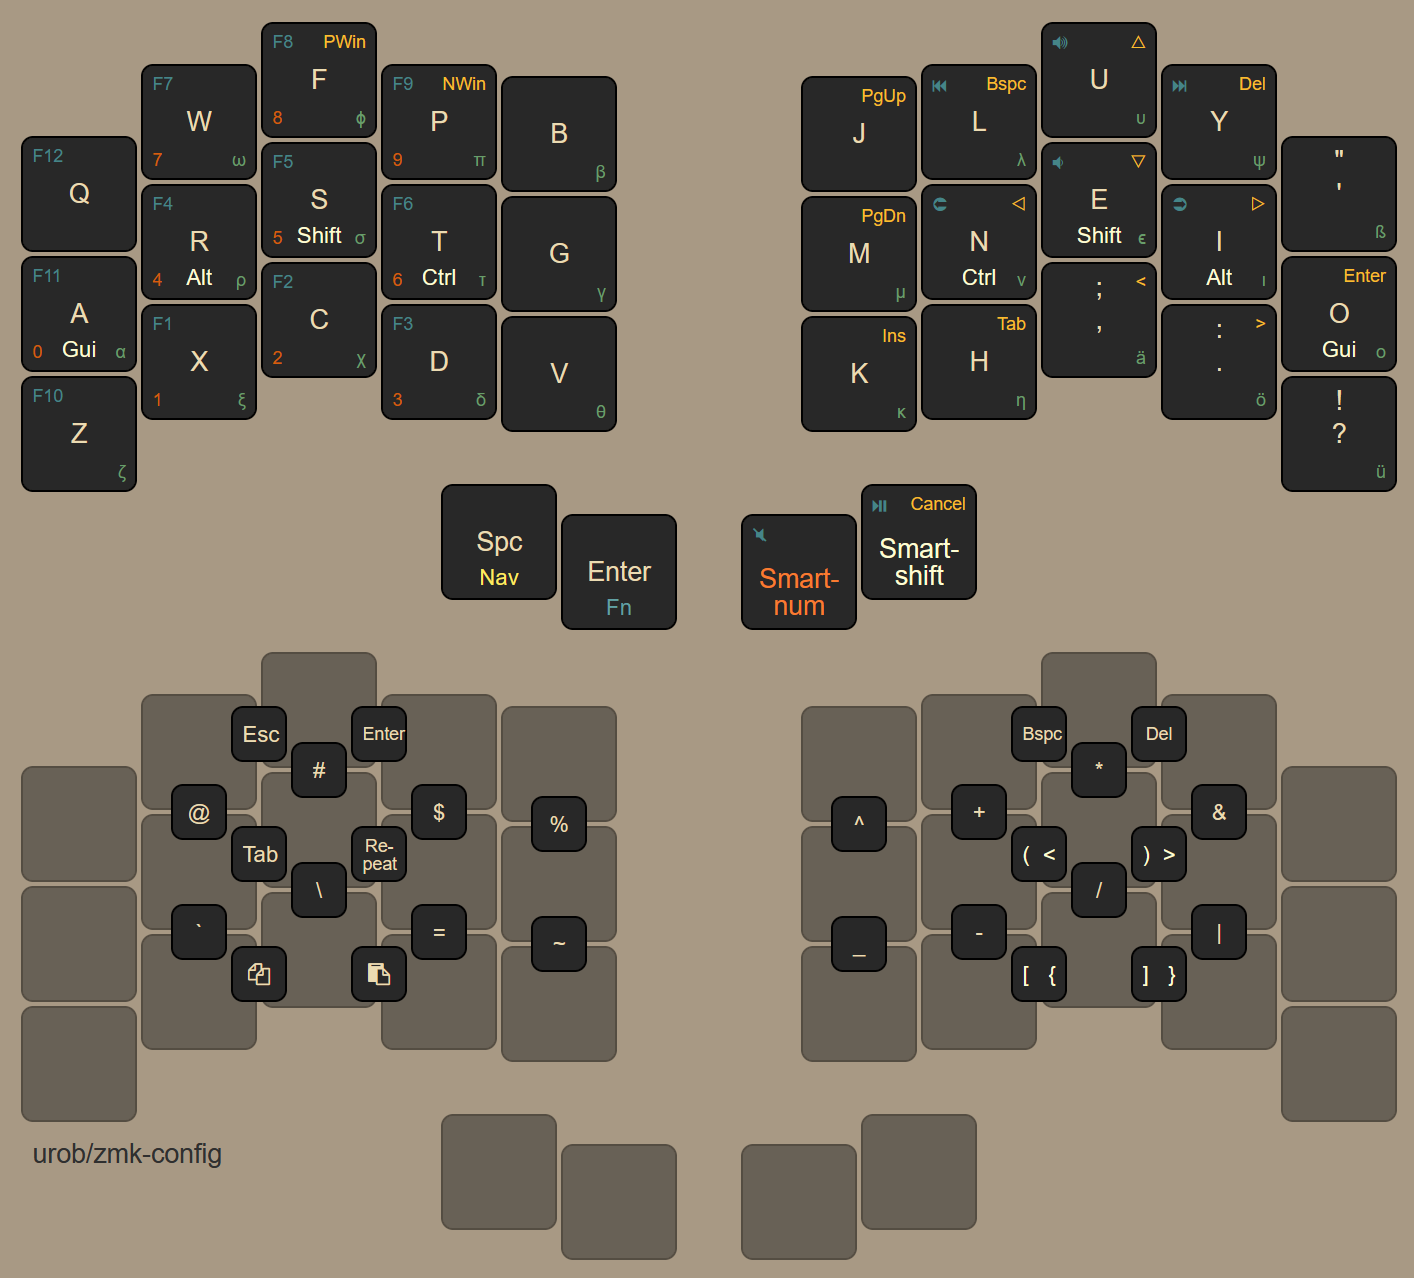
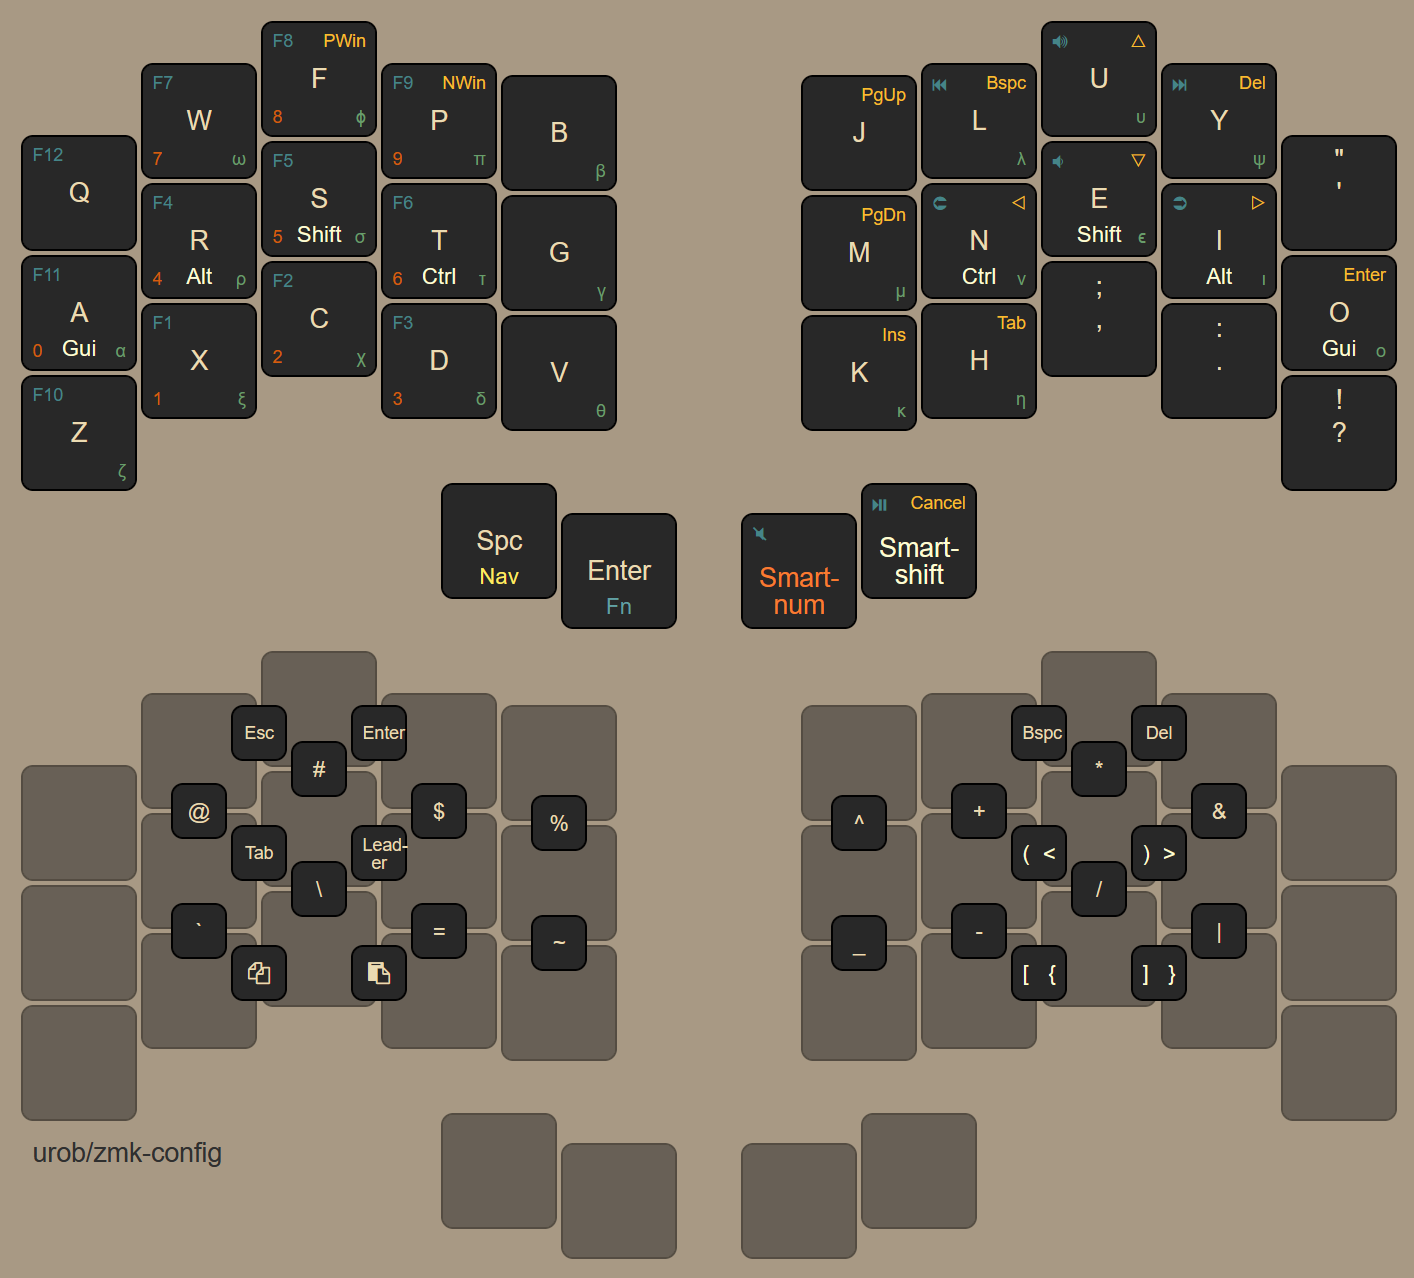
Update documentation

diff --git a/readme.md b/readme.md
@@ -10,26 +10,20 @@ compatible with Zephyr 3.0 is available
 
 ## Highlights
 
-- simple keymap configuration using helper macros from
+- ["Timeless" homerow mods](#timeless-homerow-mods)
+- Combos replace symbol layer
+- Smart numbers and mouse layers auto-toggle off
+- Unicode math and international leader key sequences
+- Simplified Devicetree syntax using helper macros from
   [zmk-helpers](https://github.com/urob/zmk-helpers)
-- the base keymap and combo setup are independent of the physical location of
-  keys and are re-used for multiple keyboards. The configuration is fit onto
-  larger boards by padding it via a modular structure of "extra keys"
-- ["timeless" homerow mods](#timeless-homerow-mods)
-- combos replacing the symbol layer
-- smart numbers and smart mouse layers that automatically toggle off when done
-- sticky shift on right thumb, double-tap (or shift + tap)[^1] activates
-  caps-word
-- arrow-cluster doubles as <kbd>home</kbd>, <kbd>end</kbd>, <kbd>begin/end of
+- Base keymap padded with modular structure of "extra keys" to fit on larger
+  boards
+- Arrow-cluster doubles as <kbd>home</kbd>, <kbd>end</kbd>, <kbd>begin/end of
   document</kbd> on long-press
-- more intuitive shift-actions: <kbd>, ;</kbd>, <kbd>. :</kbd> and <kbd>?
+- More intuitive shift-actions: <kbd>, ;</kbd>, <kbd>. :</kbd> and <kbd>?
   !</kbd>
-- <kbd>shift</kbd> + <kbd>space</kbd> morphs into <kbd>dot</kbd> →
-  <kbd>space</kbd> → <kbd>sticky-shift</kbd>
-- "Greek" layer for mathematical typesetting (activated as sticky-layer via a
-  combo)
-- nix-based [local build environment](#local-development-workspace) -- simply
-  `cd` into your workspace and start building without any setup
+- Fully automated, nix-based
+  [local build environment](#local-development-workspace)
 
 ![](draw/keymap.png)
 
@@ -41,7 +35,7 @@ timing: In its most naive implementation, in order to produce a "mod", they must
 be held _longer_ than `tapping-term-ms`. In order to produce a "tap", they must
 be held _less_ than `tapping-term-ms`. This requires very consistent typing
 speeds that, alas, I do not possess. Hence my quest for a "timer-less" HRM
-setup.[^2]
+setup.[^1]
 
 After months of tweaking, I eventually ended up with a HRM setup that is
 essentially timer-less, resulting in virtually no misfires. Yet it provides a
@@ -51,7 +45,7 @@ Let's suppose for a moment we set `tapping-term-ms` to something ridiculously
 large, say 5 seconds. This makes the configuration timer-less of sorts. But it
 has two problems: (1) To activate a mod we will have to hold the HRM keys for
 what feels like eternity. (2) During regular typing, there are delays between
-the press of a key and the time it appears on the screen.[^3] Enter two of my
+the press of a key and the time it appears on the screen.[^2] Enter two of my
 favorite ZMK features:
 
 - To address the first problem, I use ZMK's `balanced` flavor, which produces a
@@ -148,7 +142,7 @@ smaller (and larger) things to try.
 
 - **Noticeable delay when tapping HRMs:** Increase `require-prior-idle-ms`. As a
   rule of thumb, you want to set it to at least `10500/x` where `x` is your
-  (relaxed) WPM for English prose.[^4]
+  (relaxed) WPM for English prose.[^3]
 - **False negatives (same-hand):** Reduce `tapping-term-ms` (or disable
   `hold-trigger-key-positions`)
 - **False negatives (cross-hand):** Reduce `require-prior-idle-ms` (or set
@@ -249,14 +243,15 @@ I am using [Nick Conway](https://github.com/nickconway)'s fantastic
 [tri-state](https://github.com/zmkfirmware/zmk/pull/1366) behavior for a
 one-handed Alt-Tab switcher (`PWin` and `NWin`).
 
-##### Repeat
+##### Leader key
 
-I recently switched to 25g-chocs on one of my keyboards. I already was very
-happy with my combos prior to that (even with heavy-ish MX-switches). But with
-the light chocs, I find that I can now even use them for regular typing. While I
-haven't yet tried placing alphas on combos, I am currently experimenting with a
-`repeat` combo on my home row that I use to reduce SFUs when typing
-double-letter words.
+I recently started using Nick Conway's
+[Leader key](https://github.com/zmkfirmware/zmk/pull/1380) implementation for
+ZMK. From my limited experience, I really like how it allows making less
+commonly used behaviors accessible without binding them to a dedicated key. For
+now I am using it for a variety of Unicode math symbols and international
+characters. I am planning to extend the use to various firmware interactions
+once I figure out the technical details.
 
 ## Local development workspace
 
@@ -281,9 +276,9 @@ environment is _completely isolated_ and won't pollute your system.
    ```
 
 2. Install [`direnv`](https://direnv.net/) (and optionally but recommended
-   [`nix-direnv`](https://github.com/nix-community/nix-direnv)[^5]) using your
+   [`nix-direnv`](https://github.com/nix-community/nix-direnv)[^4]) using your
    package manager of choice. E.g., using the `nix` package manager that we just
-   installed[^6]:
+   installed[^5]:
 
    ```
    nix profile install nixpkgs#direnv nixpkgs#nix-direnv
@@ -409,31 +404,11 @@ remaining issues:
   pause when wanting to chord HRMs that overlap with combo positions. As a
   workaround, I implemented all homerow combos as homerow-mod-combos. This is
   good enough for day-to-day, but does not address all edge cases (eg
-  dynamically adding/removing mods doesn't work well). Having a native solution
-  akin to QMK's "COMBO_MUST_TAP" property would be fantastic.
-- Another item on my wishlist are adaptive keys
-  ([#1624](https://github.com/zmkfirmware/zmk/issues/1624)). This would open the
-  door for things like <kbd>space</kbd><kbd>space</kbd> becoming
-  <kbd>.</kbd><kbd>space</kbd><kbd>sticky-shift</kbd>. (Using tap-dance isn't
-  really an option here due to the delay it adds)
-- A minor thing is that ZMK doesn't yet support any keys on the
-  desktop-user-page; e.g., OS sleep
-  ([#1077](https://github.com/zmkfirmware/zmk/issues/1077),
-  [#1535](https://github.com/zmkfirmware/zmk/issues/1535))
+  changing active mods).
 - Very minor: `&bootloader` doesn't work with stm32 boards like the Planck
   ([#1086](https://github.com/zmkfirmware/zmk/issues/1086))
 
 [^1]:
-    Really what's happening is that `Shift` + my right home-thumb morph into
-    caps-word. This gives me two separate ways of activating it: (1) Holding the
-    homerow-mod shift on my left index-finger and then pressing my right
-    home-thumb, which is my new preferred way. Or, (2) double-tapping the right
-    home-thumb, which also works because the first tap yields sticky-shift,
-    activating the mod-morph upon the second tap. But even when only activating
-    via double-tapping, this implementation is advantageous compared to using
-    tap-dance as it does not create any delay when single-tapping the key.
-
-[^2]:
     I call it "timer-less", because the large tapping-term makes the behavior
     insensitive to the precise timings. One may say that there is still the
     `require-prior-idle` timeout. However, with both a large tapping-term and
@@ -442,12 +417,12 @@ remaining issues:
     i.e., variations in typing speed won't affect _what_ is being typed but
     merely _how fast_ it appears on the screen.
 
-[^3]:
+[^2]:
     The delay is determined by how quickly a key is released and is not directly
     related to the tapping-term. But regardless of its length, most people still
     find it noticable and disruptive.
 
-[^4]:
+[^3]:
     E.g, if your WPM is 70 or larger, then the default of 150ms (=10500/70)
     should work well. The rule of thumb is based on an average character length
     of 4.7 for English words. Taking into account 1 extra tap for `space`, this
@@ -455,12 +430,12 @@ remaining issues:
     / x milliseconds. The approximation errs on the safe side, as in practice
     home row taps tend to be faster than average.
 
-[^5]:
+[^4]:
     `nix-direnv` provides a vastly improved caching experience compared to only
     having `direnv`, making entering and exiting the workspace instantaneous
     after the first time.
 
-[^6]:
+[^5]:
     This will permanently install the packages into your local profile, forgoing
     many of the benefits that make Nix uniquely powerful. A better approach,
     though beyond the scope of this document, is to use `home-manager` to
